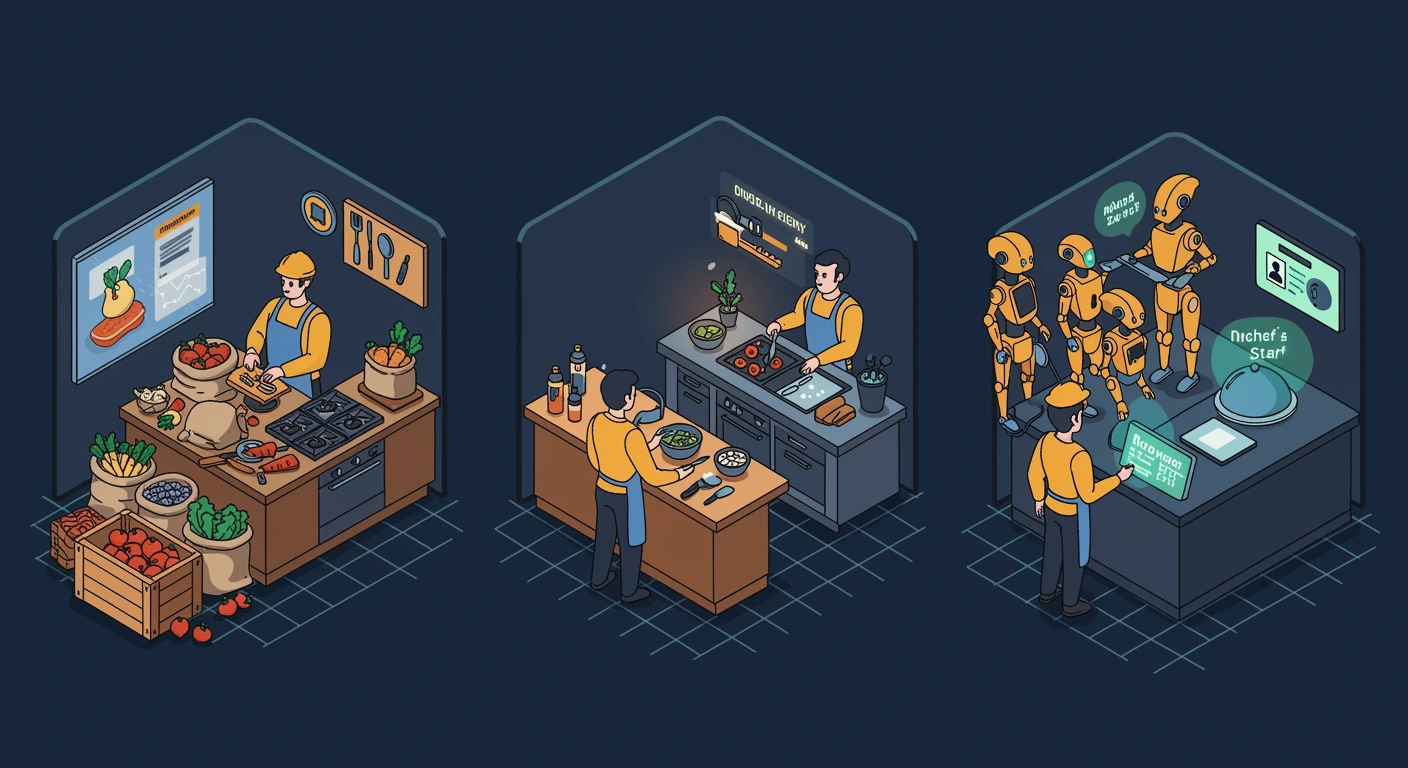
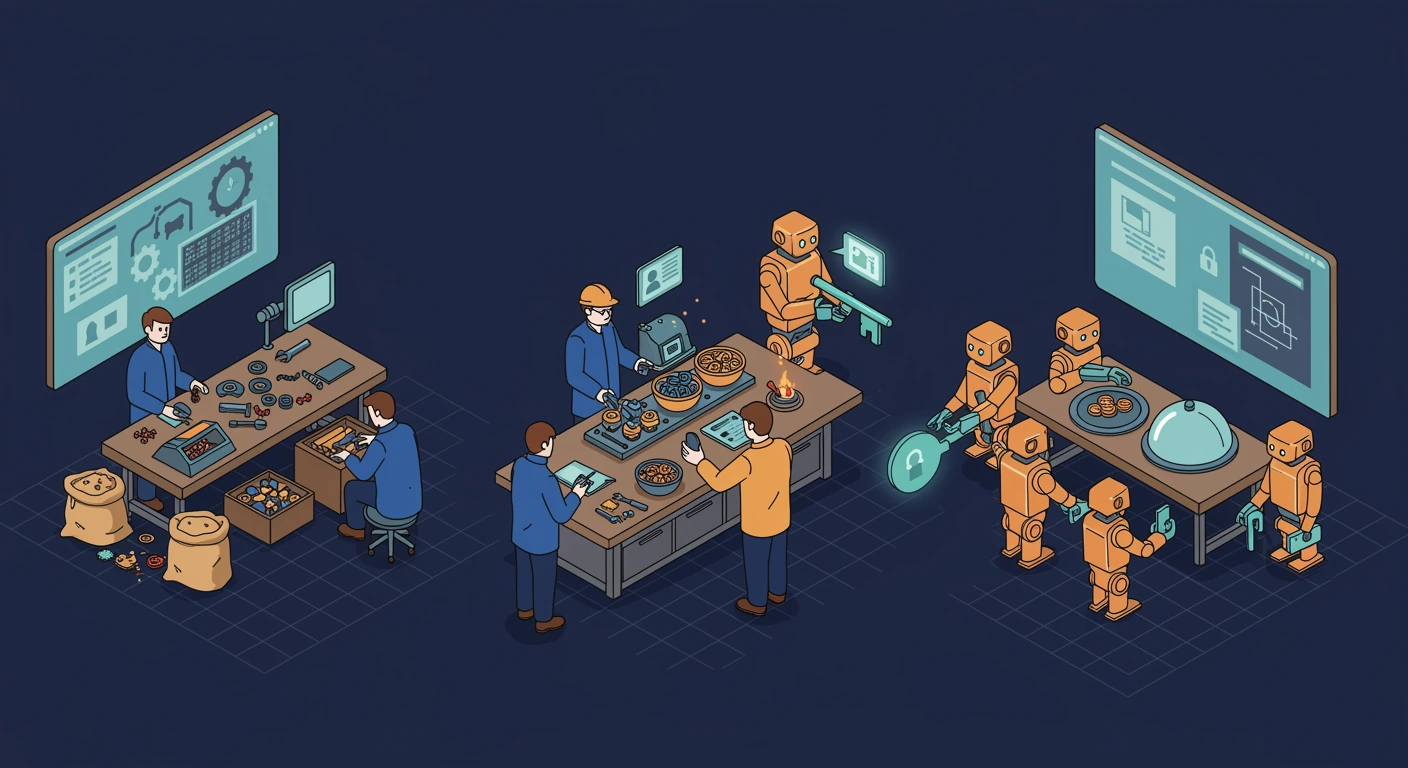
CSE CH1 lecture: real motion on the boundary, and two visuals that lied
Chris BLOCK, three findings, all correct.

1. THE ANIMATION DID NOT ANIMATE. Slide 7's entire lesson is that the responsibility
   line slides. Chris sampled the band's pixel row at a fixed column across the whole
   5s clip and got an identical position every time. My own re-measure found ~24px of
   drift in a 768px frame -- imperceptible either way. I had claimed 'confirmed the
   band rises' after eyeballing a 3-frame tile strip; that was me seeing what I
   expected. Third false-verified claim this session.
   Kling cannot be held to a geometric promise, so the promise moved off the video:
   the tower is regenerated with NO band, and the boundary is now a DOM element whose
   position I control and can measure. Percentages come from sampling the artwork's
   amber bounding box (tower = x 39.1-59.6%, y 5.5-59.9%), not from guessing.
   Measured in-browser over 11 samples: the band edge travels 152px and stays inside
   the artwork at every sample. The check fails the build if travel <= 80px.

2. 'TEXT-FREE' WAS FALSE. ch1-02 rendered 'SERVIICE' and garbled shelf labels; ch1-04
   rendered 'DIVODIN EIERY' and 'Nichef's Staff'. Undisclosed, and projected in front
   of a class -- the exact v2 failure the visual standard exists to ban. Root cause:
   nouns like 'vending machine', 'shop-front' and 'kitchen' invite signage. Both
   regenerated with every sign-implying noun removed and with the blank surfaces
[…]

diff --git a/_app/houses/cloud/cse/instructor/cse-lecture-ch1.html b/_app/houses/cloud/cse/instructor/cse-lecture-ch1.html
@@ -102,6 +102,44 @@
         box-shadow: 0 18px 50px rgba(0,0,0,.55);
     }
 
+    /* ── the sliding responsibility boundary (slide 7) ────────
+       This ONE moving element is driven from the DOM, not from the generated video.
+       Kling was asked to slide the band and did not: measured across the whole 5s clip
+       the band centre moved ~24px in a 768px frame -- imperceptible, and the slide's
+       entire lesson is that the line MOVES. Chris measured zero at his sample column.
+       A generated clip cannot be held to a geometric promise, so the promise moves to
+       CSS, where the geometry is exact and testable.
+       Percentages are measured from the artwork, not guessed: the tower occupies
+       x 39.1-59.6%, y 5.5-59.9% of the image (sampled by amber-pixel bounding box). */
+    /* The stage box must match the rendered image EXACTLY, because the band below is
+       positioned in percentages of it. An inline-block wrapper has height:auto, so the
+       image's max-height:100% resolves against nothing and the slide overflowed by
+       42-73px. Declaring the artwork's own ratio (1408x768 = 11/6) lets the box fit
+       inside both constraints without distorting, and keeps stage == image. */
+    .tower-stage {
+        position: relative; aspect-ratio: 11 / 6;
+        height: 100%; width: auto; max-width: 100%; max-height: 100%;
+    }
+    .tower-stage img { display: block; width: 100%; height: 100%; object-fit: contain; }
+    .cust-zone {
+        position: absolute; left: 38.4%; width: 21.8%; top: 5.0%;
+        background: rgba(56,150,255,.30);
+        border-bottom: 5px solid #7dd3fc;
+        box-shadow: 0 0 24px rgba(56,189,248,.8);
+        border-radius: 3px 3px 0 0;
+        pointer-events: none;
+        animation: shareShrink 11s ease-in-out infinite;
+    }
+    /* The customer's share is most of the stack at IaaS and a sliver at SaaS. */
+    @keyframes shareShrink {
+        0%,   14% { height: 45%; }
+        48%,  62% { height: 13%; }
+        92%, 100% { height: 45%; }
+    }
+    @media (prefers-reduced-motion: reduce) {
+        .cust-zone { animation: none; height: 45%; }
+    }
+
     /* beats -- short anchors, never paragraphs */
     .beats {
         flex: none; display: flex; flex-wrap: wrap; justify-content: center;
@@ -195,7 +233,7 @@
 
     <!-- 0 ─────────────────────────────────────────────────── -->
     <section class="slide cover active">
-      <div class="eyebrow">Chapter 1 &middot; companion to CSE-01</div>
+      <div class="eyebrow">Chapter 1 &middot; EC-Council C|CSE</div>
       <h1>What is Cloud?</h1>
       <p class="tag">Before anyone can secure it, they have to know what &ldquo;it&rdquo; is.</p>
     </section>
@@ -317,10 +355,11 @@
       <h2>Shared responsibility: the one diagram that runs the course</h2>
       <p class="sub">Spend real time here. Every later chapter stands on this slide.</p>
       <div class="visual">
-        <video autoplay loop muted playsinline
-               poster="/assets/images/cse-lecture/ch1/ch1-06-shared-responsibility.webp">
-          <source src="/assets/images/cse-lecture/ch1/ch1-06-shared-responsibility.mp4" type="video/mp4">
-        </video>
+        <div class="tower-stage">
+          <img src="/assets/images/cse-lecture/ch1/ch1-06-shared-responsibility.webp"
+               alt="A single tower standing on one unbroken green foundation slab that carries an ID badge, sealed crates and a control panel. A blue band over the tower marks the customer's share and slides downward as it shrinks, while the green foundation never changes.">
+          <div class="cust-zone" aria-hidden="true"></div>
+        </div>
       </div>
       <div class="beats">
         <span>The line slides toward the provider</span>

diff --git a/_planning/cse-visuals/ch1-lecture/regen-ch1.py b/_planning/cse-visuals/ch1-lecture/regen-ch1.py
@@ -1,0 +1,99 @@
+#!/usr/bin/env python3
+"""
+Re-render the three CH1 stills Chris blocked on.
+
+02  rendered "SERVIICE" and garbled shelf labels, AND drew a STAFFED approval desk --
+    the opposite of the slide's point (nobody approves it). Root cause of the text:
+    words like "vending machine", "shop", "counter" invite signage. Removed every noun
+    that implies a sign, and made the empty desk the loudest thing in the frame.
+02/04 also falsify my "text-free" claim, which is the v2 failure this platform's
+    standard exists to ban. Prompts now enumerate the specific surfaces that must stay
+    blank rather than issuing one blanket instruction the model ignores.
+06  is regenerated WITHOUT the dividing band. Kling would not move the band (measured:
+    ~24px of drift over 5s, imperceptible), so the band becomes a DOM element that
+    slides -- geometry I control and can measure, same reasoning as the .ov-band titles.
+"""
+import os, io, sys, requests, fal_client
+from PIL import Image
+
+BASE = ("Educational infographic illustration in the style of Dan Nanni / Cyber Edition "
+        "cybersecurity educators on social media. Richly illustrated isometric scene, warm "
+        "and characterful. BOLD, HIGH CONTRAST, few large elements -- projected on a "
+        "classroom wall, must read from the back row. Dark navy background (#0b1220), faint "
+        "technical grid floor, soft cyan rim light. Generous empty margins.\n\n")
+
+NOTEXT = ("\n\nCRITICAL -- THE IMAGE MUST CONTAIN NO WRITING OF ANY KIND. No words, no "
+          "letters, no numbers, no labels, no captions, no signs, no signboards, no name "
+          "plates, no banners, no posters, no menus, no price tags, no screen text, no "
+          "keyboard letters, no book text, no speech bubbles, no logos, no watermark, no "
+          "decorative lettering, no fake or nonsense lettering. Every screen is blank or "
+          "shows only abstract coloured shapes. Every panel, box, sign and surface is "
+          "completely blank. Pure wordless illustration. 16:9 landscape.")
+
+JOBS = {
+ # slide 3 -- NIST / self-service. The EMPTY desk is the teaching point.
+ 'ch1-02-self-service': BASE + (
+   "Scene: anyone may simply take what they want, and the post that should stop them is "
+   "abandoned.\n\n"
+   "On the RIGHT, a tall open storage rack of glowing cyan cubes on plain shelves, standing "
+   "open with no doors and no barrier. THREE separate human figures are each reaching in and "
+   "lifting a glowing cube straight off a shelf at the same time, unhindered and casual. They "
+   "do not look at each other -- they are strangers taking from the same rack.\n\n"
+   "On the LEFT, and this must be unmistakable, an ABANDONED checkpoint: a plain desk with an "
+   "EMPTY swivel chair turned away at an angle, NOBODY sitting at it and NOBODY standing near "
+   "it. The desk surface is bare. A small unlit lamp sits dark on it. A velvet rope barrier in "
+   "front of the desk hangs UNHOOKED and slack, one post fallen over on the floor, so the path "
+   "past the desk is wide open. A thin layer of dust and a cobweb on the chair. Absolutely no "
+   "person anywhere near this desk.\n\n"
+   "Colour: cold dead grey and deep shadow on the abandoned desk, bright cyan on the rack and "
+   "the cubes being taken." + NOTEXT),
+
+ # slide 5 -- service models
+ 'ch1-04-service-models': BASE + (
+   "Scene: three work benches in a row, showing how much work is left to the person.\n\n"
+   "Three plain isometric work benches, equal size, evenly spaced, no signs and no boards "
+   "anywhere.\n\n"
+   "LEFT bench: covered in raw unprocessed materials -- sacks, loose parts, an unlit burner, "
+   "tools scattered everywhere. One human engineer in a blue jacket works hard here, sleeves "
+   "rolled up, clearly busy, surrounded by unfinished work. No robots help.\n\n"
+   "MIDDLE bench: half-prepared components sit tidily in plain bowls, a burner is lit. The "
+   "same human engineer stands here doing much less, simply assembling. Two amber robots do "
+   "the rest.\n\n"
+   "RIGHT bench: one finished covered dish under a plain metal dome, complete. The human "
+   "engineer here stands upright with hands relaxed, doing no work at all -- but holds a "
+   "single large glowing EMERALD GREEN key in one hand and a glowing EMERALD GREEN ID card in "
+   "the other, held close to the chest. Six amber robots do everything around them.\n\n"
+   "Colour: BLUE for the human's own labour, AMBER for the robots, and the key and card glow "
+   "EMERALD GREEN -- the part never handed over." + NOTEXT),
+
+ # slide 7 -- shared responsibility, NO BAND (the band is added as a moving DOM element)
+ 'ch1-06-tower-nobands': BASE + (
+   "Scene: one tall tower standing on an unbroken foundation.\n\n"
+   "ONE single large isometric tower stands in the exact centre of the frame, built of four "
+   "chunky stacked layers of equal height: a heavy vault block at the bottom, a server rack "
+   "above it, a machinery module above that, and a small plain awninged storefront at the top. "
+   "The tower is UNIFORM WARM AMBER GOLD from top to bottom -- one single colour, evenly lit. "
+   "There is NO horizontal stripe, NO band of light, NO glowing line and NO dividing mark "
+   "anywhere on the tower. Its surface is clean and unbroken.\n\n"
+   "Small amber robot caretakers tend the lower half and a small human engineer in a blue "
+   "jacket works on scaffolding at the upper half.\n\n"
+   "Beneath the tower, spanning the FULL WIDTH of the image as one single continuous EMERALD "
+   "GREEN vault slab, sits the foundation -- visibly one unbroken slab, never divided. "
+   "Standing on the green slab, evenly spaced and clearly separated: a glowing ID badge with a "
+   "keyhole, a stack of sealed crates with closed padlocks, and a control panel with dials. A "
+   "human engineer in a blue jacket stands among them with arms spread protectively.\n\n"
+   "Leave clear empty dark space to the left and right of the tower." + NOTEXT),
+}
+
+def main():
+    if not os.environ.get('FAL_KEY'):
+        sys.exit('FAL_KEY not in env')
+    for slug, prompt in JOBS.items():
+        print('---', slug)
+        res = fal_client.subscribe('fal-ai/imagen3', arguments={
+            'prompt': prompt, 'aspect_ratio': '16:9'})
+        img = Image.open(io.BytesIO(requests.get(res['images'][0]['url'], timeout=180).content)).convert('RGB')
+        img.save(slug + '.webp', 'webp', quality=92, method=6)
+        print('   %s  %dx%d  %d KB' % (slug, img.size[0], img.size[1],
+                                       os.path.getsize(slug + '.webp') // 1024))
+main()
